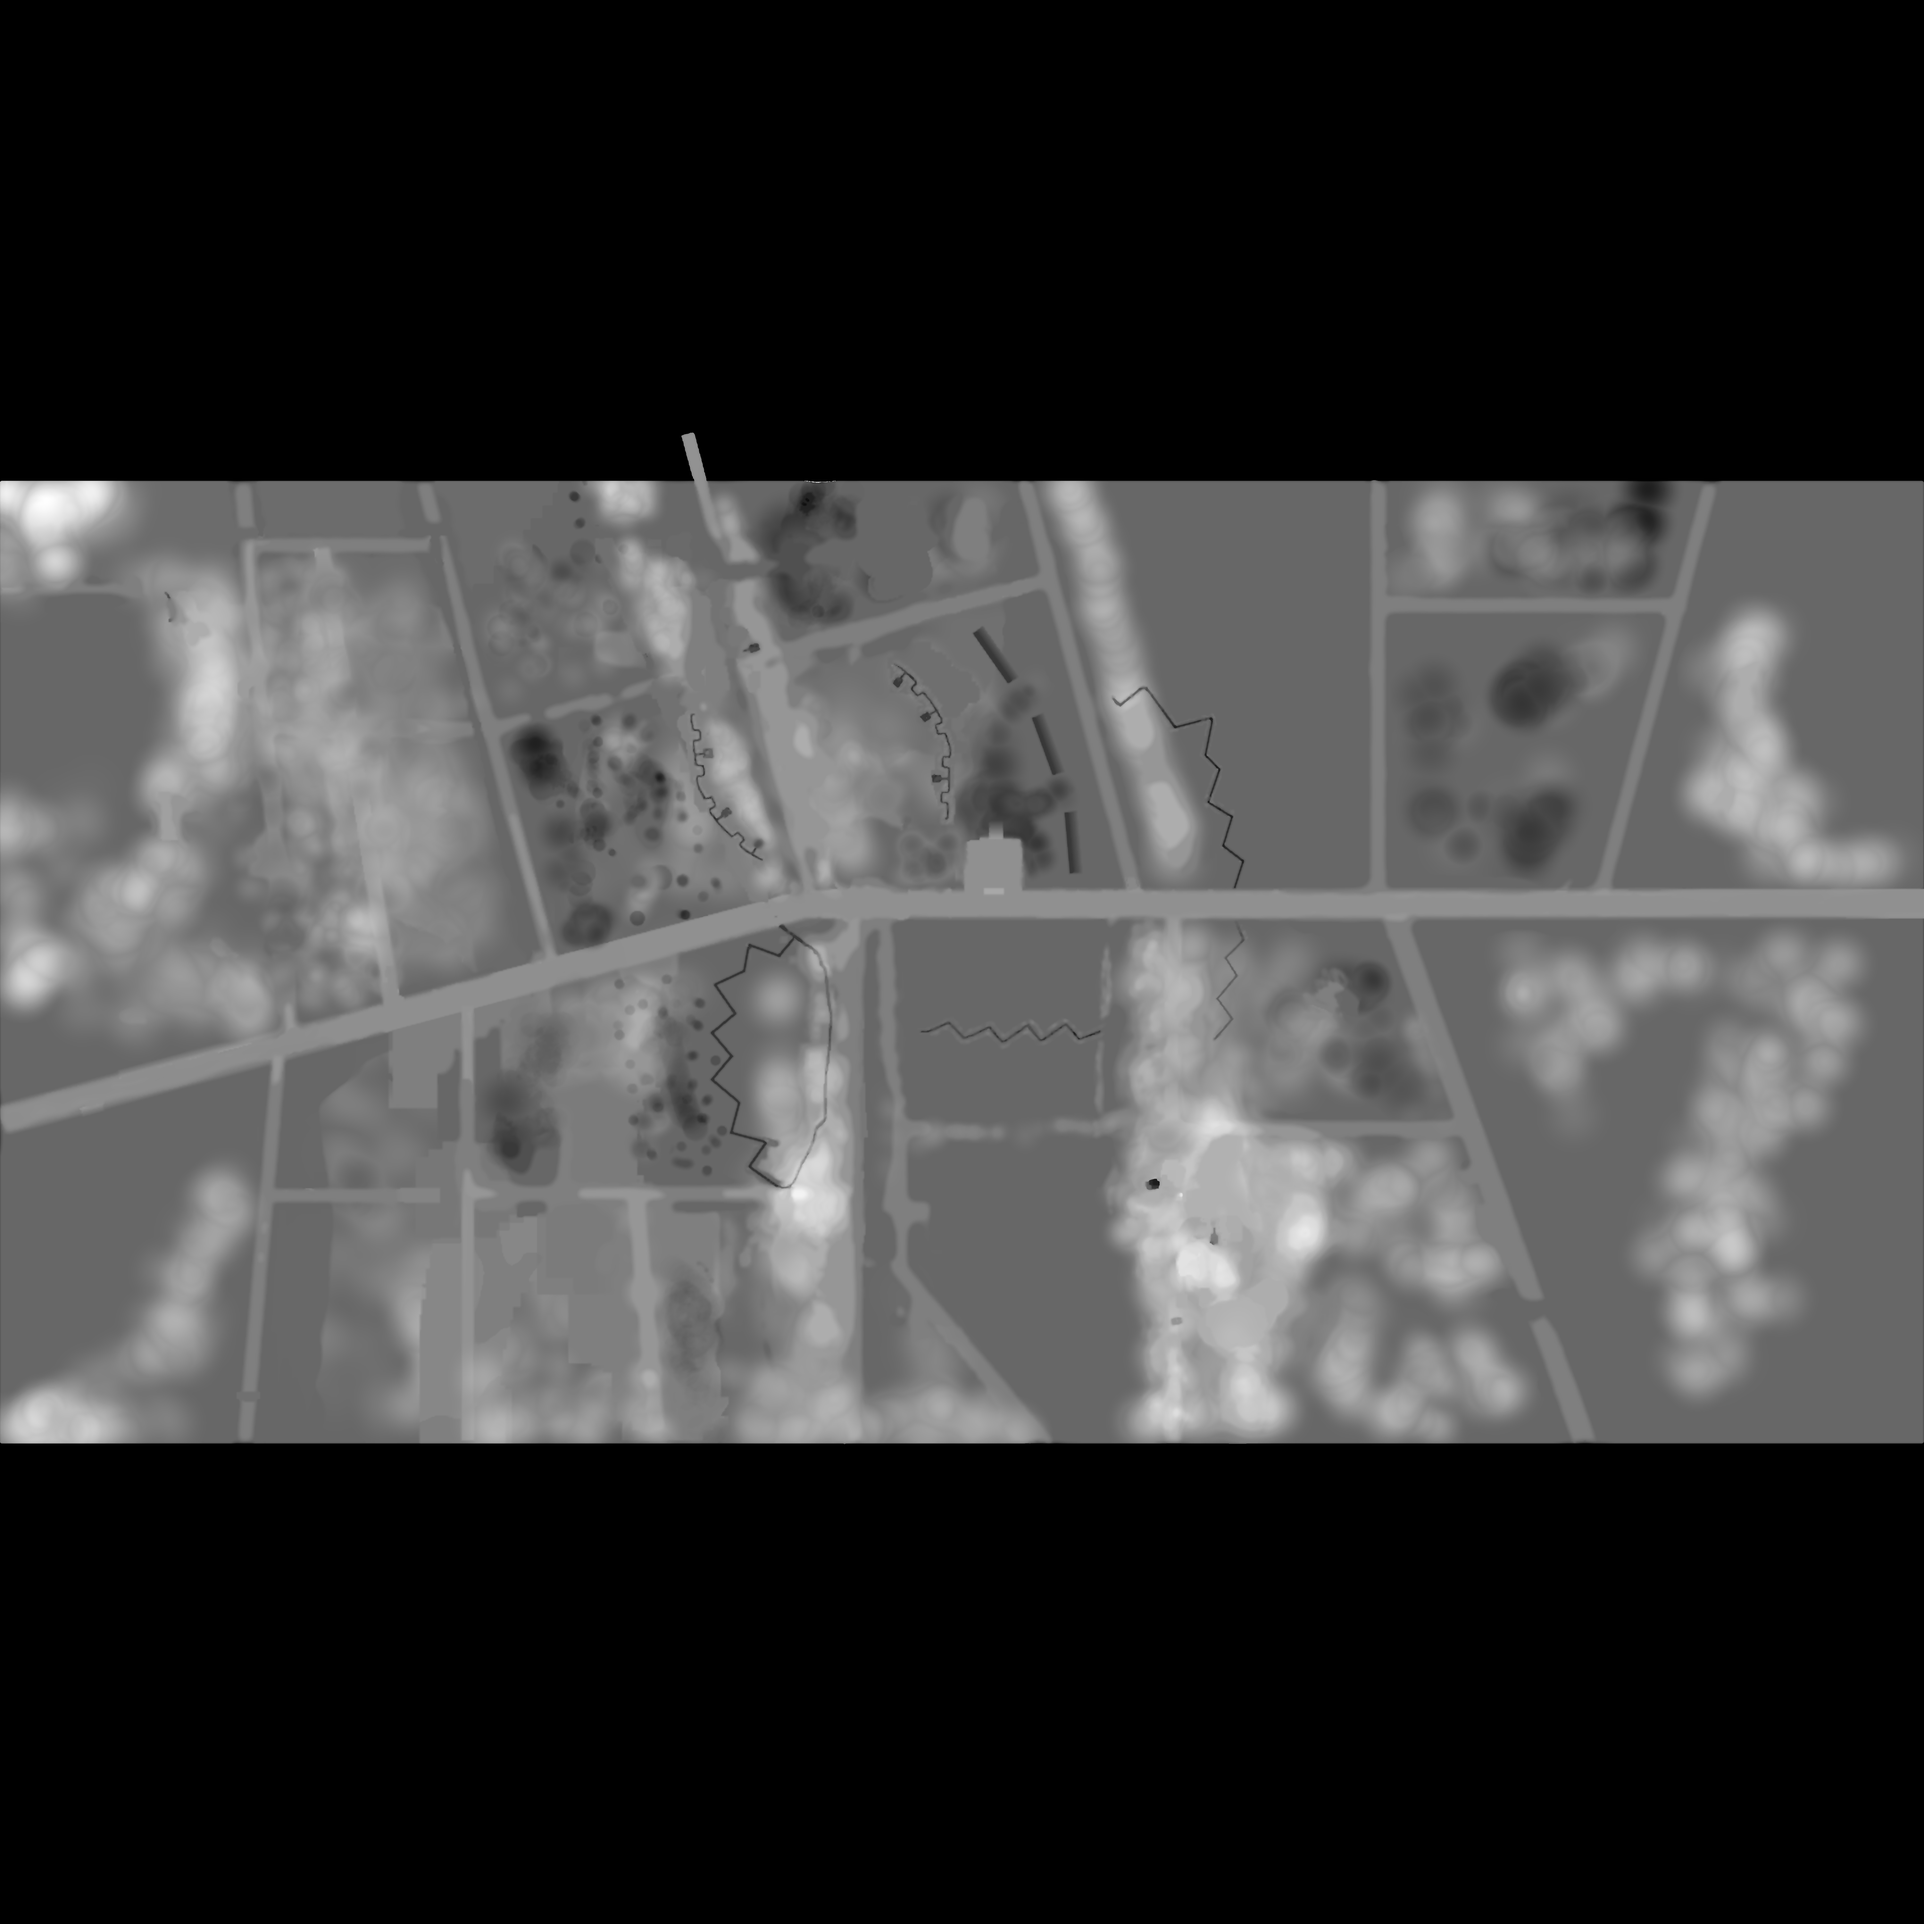
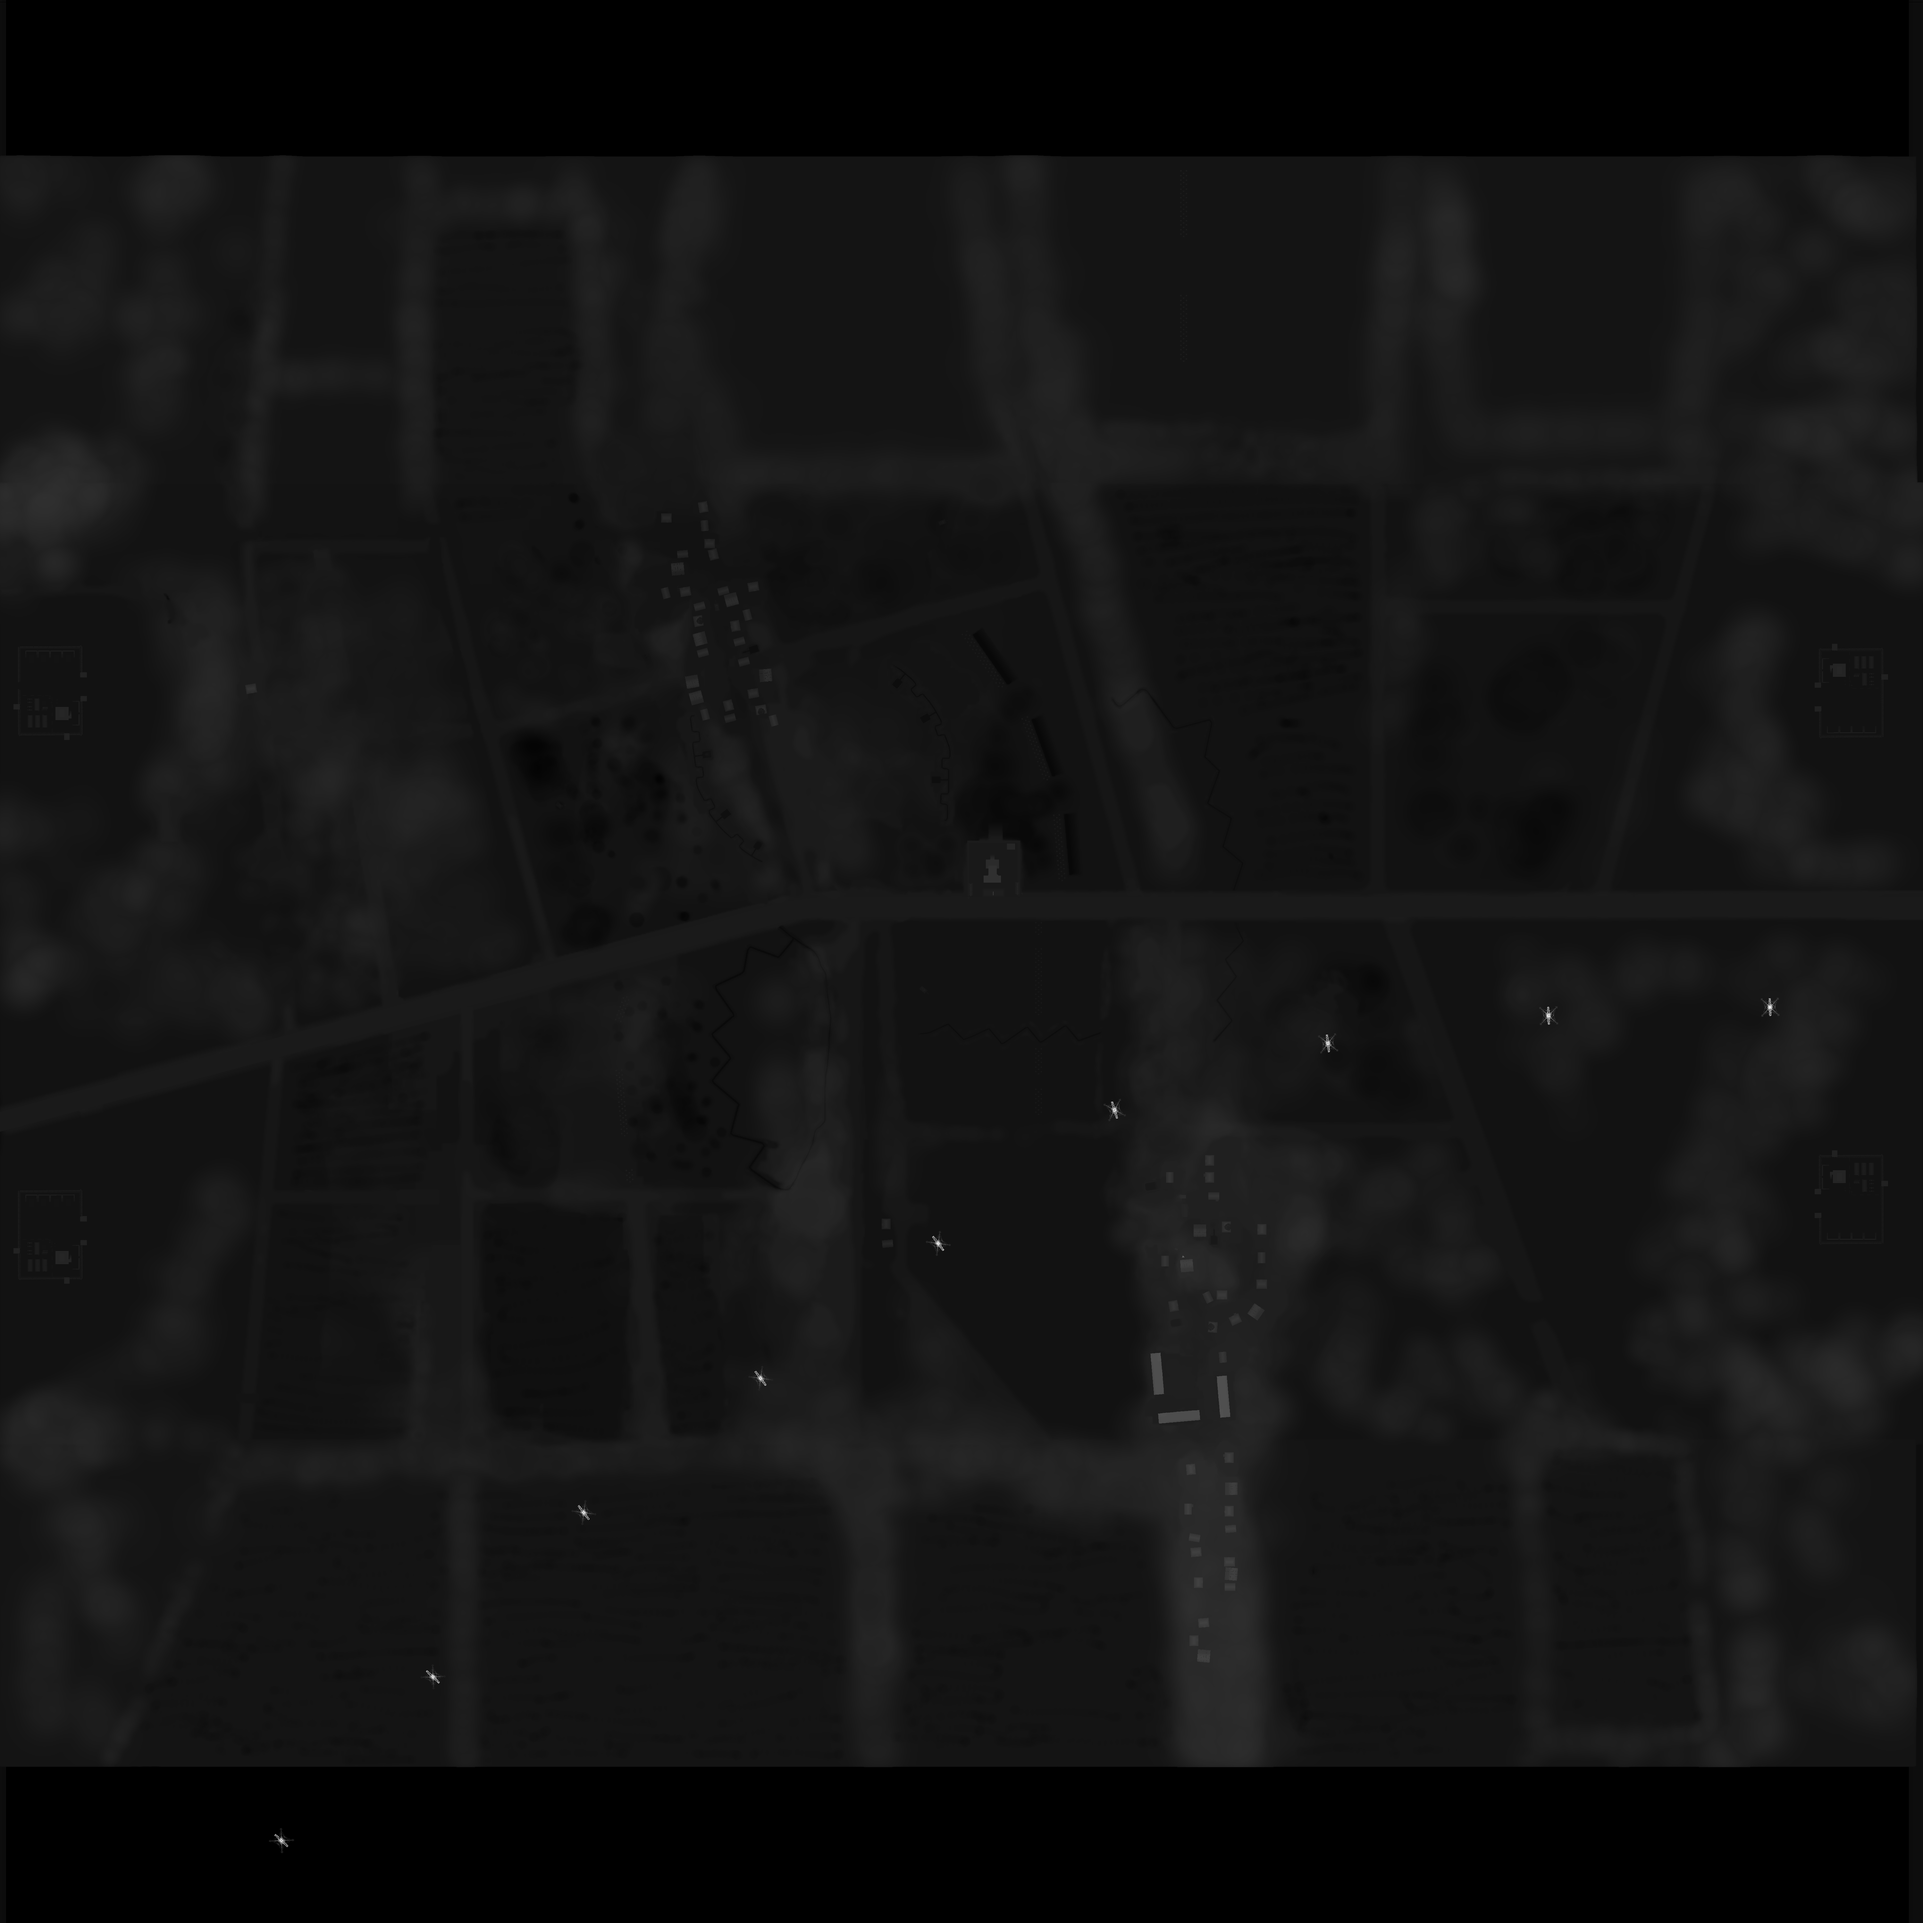
muddy fields

diff --git a/src/config/maps.ts b/src/config/maps.ts
@@ -139,12 +139,12 @@ export const gameMaps = {
   muddy_fields: {
     image: 'muddy_fields',
     name: 'Muddy Fields',
-    size: 667 * 9,
+    size: calculateMapSize(240),
     heightmap: {
       0: 0,
-      255: 43.9580078125,
-      width: 6003,
-      height: 6003,
+      255: 226.43841552734375,
+      width: 5998,
+      height: 5998,
     },
   },
 
